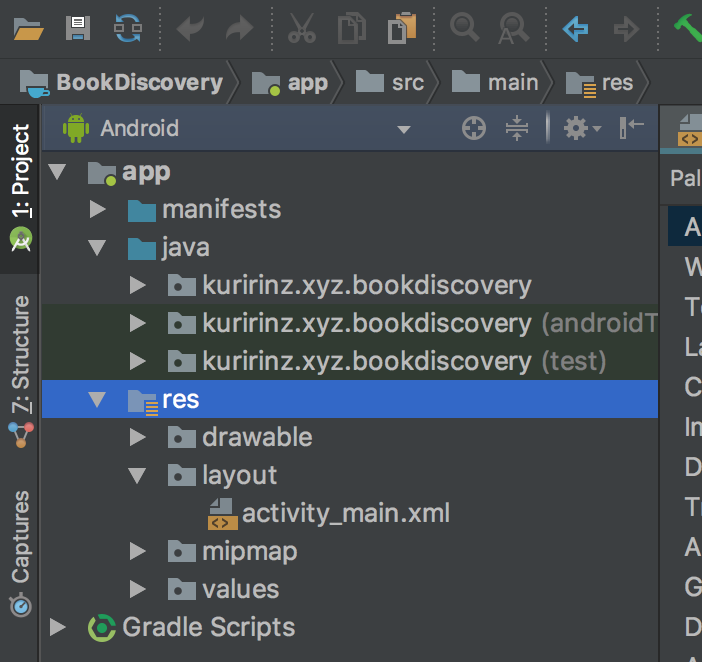
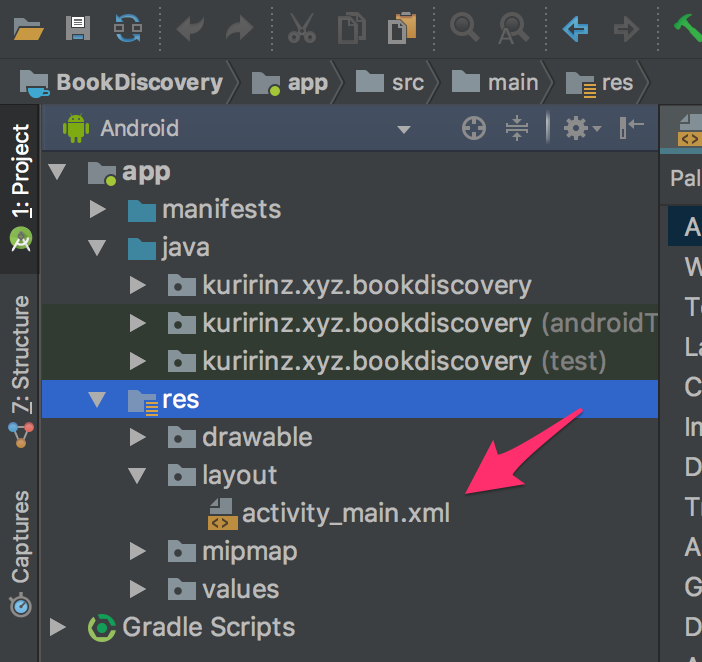
markdown箇条書きが有効になるよう記述を修正 レイアウト作成画面の手順、画像を更新

Changed region(s): [[0.6581, 0.6344, 0.8077, 0.7553], [0.8077, 0.6042, 0.8376, 0.6344]]

diff --git a/source/_posts/android/00-EnvironmentStructure.md b/source/_posts/android/00-EnvironmentStructure.md
@@ -35,28 +35,20 @@ java(JDK)をインストールします。
 ### JDKのインストール
 ダウンロードしたJDKのインストーラを起動してPCにJDKをインストールします。
 
-1.ダウンロードしたexeファイルをダブルクリックしインストーラーを起動します。
+1. ダウンロードしたexeファイルをダブルクリックしインストーラーを起動します。
 <img src="j8_i_01.png" alt="alt" title="java(JDK) install" width="520">
-
-
-2.確認ダイアログが表示された場合は、```はい```をクリックします。
+2. 確認ダイアログが表示された場合は、```はい```をクリックします。
 <img src="j8_i_02.png" alt="alt" title="java(JDK) install" width="450">
-
-3.JDKのインストール開始画面が表示されたら```次(N) >```をクリックし、その後も画面に従いインストールを進めます。
+3. JDKのインストール開始画面が表示されたら```次(N) >```をクリックし、その後も画面に従いインストールを進めます。
 <img src="j8_i_03.png" alt="alt" title="java(JDK) install" width="450">
-
-4.**開発ツール**が選択されていることを確認し、```次(N) >```をクリックします
+4. **開発ツール**が選択されていることを確認し、```次(N) >```をクリックします
 <img src="j8_i_04.png" alt="alt" title="java(JDK) install" width="450">
-
-5.JDKの保存先を設定できます、変更は不要なので```次(N) >```をクリックします
+5. JDKの保存先を設定できます、変更は不要なので```次(N) >```をクリックします
 <img src="j8_i_06.png" alt="alt" title="java(JDK) install" width="450">
-
-6.インストールが始まります、完了して画面が変わるのを待ちます
+6. インストールが始まります、完了して画面が変わるのを待ちます
 <img src="j8_i_07.png" alt="alt" title="java(JDK) install" width="450">
-
-7.インストールの完了画面が表示されたら```閉じる(C)```をクリックします
+7. インストールの完了画面が表示されたら```閉じる(C)```をクリックします
 <img src="j8_i_08.png" alt="alt" title="java(JDK) install complete" width="450">
-
 
 以上でJDKのインストールが完了です。
 
@@ -66,84 +58,60 @@ java(JDK)をインストールします。
 ### JDKのインストール 確認
 次にコマンドプロンプトを使いJDKが正しくインストールされたことを確認します。
 
-1.Windows ホーム画面の左下にある```検索欄```に```cmd```と入力し**コマンドプロンプト**をクリックし起動します。
-
+1. Windows ホーム画面の左下にある```検索欄```に```cmd```と入力し**コマンドプロンプト**をクリックし起動します。
 <img src="j8_c_01.png" alt="alt" title="java(JDK) install confirm" width="520">
-
-
-2.コマンドプロンプトに```java -version```と入力しエンターキーを押します。
+2. コマンドプロンプトに```java -version```と入力しエンターキーを押します。
 <img src="j8_c_02.png" alt="alt" title="java(JDK) install confirm" width="600">
 
-以上でjava(JDK)のインストール作業は完了です。
+以上でjava(JDK)のインストールの確認ができました
 
 ---
 
 ## Android Studio
-続いて Android Studioの環境構築を行います。
-
-### Android Studioのインストール
+最後にAndroid Studioの環境構築を行います。
 Android Studioをインストールするため、exeファイルを下記リンクからダウンロードページにアクセスします。
 
 [Android Studio ダウンロードページ](https://developer.android.com/studio/index.html?hl=ja)
 ※ 資料作成時の最新版は Android Studio 3.0.1
 
-1.**Android Studio Androidの公式 IDE**下にある```Android Studio 3.0.1 FOR WINDOWS...```のボタンをクリックしexeファイルをダウンロードします。
+1. **Android Studio Androidの公式 IDE**下にある```Android Studio 3.0.1 FOR WINDOWS...```のボタンをクリックしexeファイルをダウンロードします。
 <img src="as_i_01.png" alt="alt" title="Android Studio download" width="520">
-
-2.ダウンロードの確認画面が表示されたら**利用規約**を確認の上、チェックをクリックし、```ANDROID STUDIO FOR WINDOWS ダウンロード```をクリックします。
+2. ダウンロードの確認画面が表示されたら**利用規約**を確認の上、チェックをクリックし、```ANDROID STUDIO FOR WINDOWS ダウンロード```をクリックします。
 <img src="as_i_02.png" alt="alt" title="Android Studio download" width="520">
-
-3.ダウンロードしたexeファイルをダブルクリックし、Android Studioのインストーラーを起動します。
+3. ダウンロードしたexeファイルをダブルクリックし、Android Studioのインストーラーを起動します。
 <img src="as_i_03.png" alt="alt" title="Android Studio download" width="520">
-
-4.確認ダイアログが表示された場合は```はい```をクリックします
+4. 確認ダイアログが表示された場合は```はい```をクリックします
 <img src="as_i_04.png" alt="alt" title="Android Studio install" width="450">
-
-5.インストーラの起動画面が表示されたら```Next >```をクリックします
+5. インストーラの起動画面が表示されたら```Next >```をクリックします
 <img src="as_i_05.png" alt="alt" title="Android Studio install" width="450">
-
-6.インストールするコンポーネント設定が表示されたら"Android Virtual Device"がチェックされていることを確認し、
-```Next >```をクリックします
+6. インストールするコンポーネント設定が表示されたら"Android Virtual Device"がチェックされていることを確認し、```Next >```をクリックします
 <img src="as_i_06.png" alt="alt" title="Android Studio install" width="450">
-
-7.Android Studioの保存先を設定します、変更の必要がなければ```Next >```をクリックりします
+7. Android Studioの保存先を設定します、変更の必要がなければ```Next >```をクリックりします
 <img src="as_i_07.png" alt="alt" title="Android Studio install" width="450">
-
-8.```Install```をクリックします
+8. ```Install```をクリックします
 <img src="as_i_08.png" alt="alt" title="Android Studio install" width="450">
-
-9.インストールの完了を待ちます
+9. インストールの完了を待ちます
 <img src="as_i_09.png" alt="alt" title="Android Studio install" width="450">
-
-10.インストールが終わったら```Next >```をクリックします
+10. インストールが終わったら```Next >```をクリックします
 <img src="as_i_10.png" alt="alt" title="Android Studio install" width="450">
-
-11.```Finish```をクリックすると、Android Studioが起動します。
+11. ```Finish```をクリックすると、Android Studioが起動します。
 引き続き、Android Studioの初回セットアップを行います
 <img src="as_i_11.png" alt="alt" title="Android Studio install" width="450">
-
-12.Android Studioが起動しAndroid SDK Componentのインストールが開始されます
+12. Android Studioが起動しAndroid SDK Componentのインストールが開始されます
 <img src="as_s_01.png" alt="alt" title="Android Studio setup" width="450">
-
-13.Welcom画面が表示されたら```Next```をクリック
+13. Welcom画面が表示されたら```Next```をクリック
 <img src="as_s_02.png" alt="alt" title="Android Studio setup" width="450">
-
-14.Install Type画面では**Standard**が選択されていることを確認し```Next```をクリックします
+14. Install Type画面では**Standard**が選択されていることを確認し```Next```をクリックします
 <img src="as_s_03.png" alt="alt" title="Android Studio setup" width="450">
-
-15.Android Studioのテーマ、色合いを好みで選択し、```Next```をクリックします
+15. Android Studioのテーマ、色合いを好みで選択し、```Next```をクリックします
 <img src="as_s_04.png" alt="alt" title="Android Studio setup" width="450">
-
-16.確認画面が表示されたら```Finish```をクリックします
+16. 確認画面が表示されたら```Finish```をクリックします
 <img src="as_s_05.png" alt="alt" title="Android Studio setup" width="450">
-
-17.Androidアプリの開発に必要なComponentのダウンロードを待ちます
+17. Androidアプリの開発に必要なComponentのダウンロードを待ちます
 <img src="as_s_06.png" alt="alt" title="Android Studio setup" width="450">
-
-18.ダウンロードが終了したら、```Finish```をクリックします
+18. ダウンロードが終了したら、```Finish```をクリックします
 <img src="as_s_07.png" alt="alt" title="Android Studio setup" width="450">
-
-19.Android Studioの起動画面が表示されたら完了です
+19. Android Studioの起動画面が表示されたら完了です
 <img src="as_s_08.png" alt="alt" title="Android Studio setup complete" width="450">
 
 以上でAndroid Studioのインストール、セットアップ作業は完了です。

diff --git a/source/_posts/android/03-StartAndroidDevelopment.md b/source/_posts/android/03-StartAndroidDevelopment.md
@@ -18,16 +18,20 @@ date: 2017-11-04
 [カーリル 図書館 API](https://calil.jp/doc/api.html)
 [Google Books API](https://developers.google.com/books/)
 
+ネットワーク通信処理に利用するライブラリ
+[okHttp](http://square.github.io/okhttp/)
+
+検索履歴を保存するアプリ内データベースに利用するライブラリ
+[Realm](https://realm.io/jp/)
+
 # 新しいプロジェクトを作る
 
 1.Windows ホーム画面の左下にある```検索欄```に```Android```と入力し**Android Studio**をクリックし起動します。
 <img src="sad01.png" alt="alt" title="SetUp" width="600">
-
 2.```Start a new Android Studio project```をクリック
 <img src="sad02.png" alt="alt" title="SetUp" width="450">
-
 3.新規プロジェクト作成時にはアプリ名などを入力します
-  以下の表の通りに項目を設定して```Next```をクリックします。
+以下の表の通りに項目を設定して```Next```をクリックします。
 
 |項目名                 |説明                |入力内容        |
 |:---------------------|:-----------------:|:------------:|
@@ -37,24 +41,17 @@ date: 2017-11-04
 |include C++ support   |C++ライブラリ取込み   |チェックを外す   |
 |include Kotlin support|Kotlinライブラリ取込み|チェックを外す   |
 
-**Company domain**は講義の説明で作成するアプリはリリースしませんので独自ドメインをお持ちでなければ初期値の
-ままで構いません。
+**Company domain**は講義の説明で作成するアプリはリリースしませんので独自ドメインをお持ちでなければ初期値のままで問題ありません。
 今回の講義ではC++での実装はありませんのでチェックを外しておきます。
 また、Kotlinは後半で利用方法を紹介しますので一旦チェックを外しておいてください。
 <img src="sad03.png" alt="alt" title="SetUp" width="450">
-
 4.今回作成するAndroidアプリでサポート対象とするOSバージョンの下限設定を行います
-**Phone and Tablet**のみチェックをつけ、
-> API 23: Android 6.0 (Marshmallow)
-
-を選択したら、```Next```をクリックします
+**Phone and Tablet**のみチェックをつけ、```API 23: Android 6.0 (Marshmallow)```を選択したら、```Next```をクリックします
 <img src="sad04.png" alt="alt" title="SetUp" width="450">
-
 5.**Empty Activity**を選択し```Next```をクリックします
 <img src="sad05.png" alt="alt" title="SetUp" width="450">
-
 6.初期画面となるActivity設定を行います
-  以下の表の通りに項目を設定して```Next```をクリックします
+以下の表の通りに項目を設定して```Next```をクリックします
 
 |項目名                             |説明                |入力内容       |
 |:---------------------------------|:-----------------:|:------------:|
@@ -64,24 +61,18 @@ date: 2017-11-04
 |Backwards Compatibility(AppCompat)|下方互換性の有無      |チェックを入れる |
 
 <img src="sad06.png" alt="alt" title="SetUp" width="450">
-
 7.「6.」で設定した内容でAndroidアプリの開発のデフォルト環境を構築が実行されます
 インストールが終了し**done**の文字が表示されたら```Finish```をクリックします。
 <img src="sad07.png" alt="alt" title="SetUp" width="450">
-
 8.構築が終了すると開発画面に遷移します
 **Messages**エリアにエラーとリンクが表示されている場合はリンクをクリックします
 <img src="sad08.png" alt="alt" title="SetUp" width="450">
-
 9.不足しているComponentのインストールを行います
 **android-sdk-license**が選択された状態で**Accept**にチェックをいれ```Next```をクリックします
 <img src="sad09.png" alt="alt" title="SetUp" width="450">
-
 10.Componentのインストール状況が表示されるので終了を待ちます
 <img src="sad10.png" alt="alt" title="SetUp" width="450">
-
 11.インストールが終わったら```Finish```をクリックします
 <img src="sad11.png" alt="alt" title="SetUp" width="450">
-
 12.Android Studioの開発画面に戻りエラーが消えていたらセットアップ完了です
 <img src="sad12.png" alt="alt" title="SetUp" width="450">

diff --git a/source/_posts/android/04-MakeLayoutDesign.md b/source/_posts/android/04-MakeLayoutDesign.md
@@ -2,11 +2,70 @@
 title: レイアウト作成
 date: 2017-11-05
 ---
-Layout Editor / ConstraintsLayoutを使用したレイアウト実装と動作確認
+Layout Editor / ConstraintLayoutを使用したレイアウト実装と動作確認
 
 <!-- toc -->
 
-# Layout Editor / ConstraintsLayout
-Android Studio 2.2から追加された機能とコンポーネントを使って画面レイアウトを作成します。
+# Layout Editor / ConstraintLayout
+Android Studio 2.2から追加されたLayout Editor、ConstraintLayoutを使って画面レイアウトを作成します。
+
+**ここに完成画面を表示**
+
+## Layout Editor
+視覚的にViewやWidgetを配置することができるようになった、特にConstrainsLayoutと
+合わせて使うことで画面のレイアウトを行う際にxmlによるプログラムを記述する手間が
+省きながら実際に配置を確認できるようになった。
+
+## ConstraintLayout
+Android 2.3(Gingerbread)以上を対象に開発を行う場合に利用することが可能。
+constraint(制約)をViewやWidgetに設けることでレイアウトを決めることができる。
+従来の"Linear Layout"や"Relative Layout"に比べネスト構造を減らした実装を行うことができるようになった。
+
+制約という単語ですがgoogle翻訳としては
+> ある条件を課して、自由にはさせないこと。その物事のために必要な条件
+
+とあります、Layoutに当てはめるとコンポーネント同士を隣接させるという制約を
+
+## ConstraintLayoutによるレイアウトの基本
+1. 先ずは以下パスにあるメイン画面のレイアウトファイルを非表示します
+**※app -> res -> layout -> activity_main.xml**
+<img src="le0.png" alt="alt" title="create layout" width="500">
+2. ２つの画面らしき表示が出たら**"Hello World"**と表示されたTextViewをクリックして```delete```キーで削除します
+<img src="le1.png" alt="alt" title="create layout" width="500">
+3. 検索文字を入力コンポーネントを画面に追加します
+```PlainText```をクリックしたまま引っ張って画面でクリックを離すと**editText**が画面に表示されます
+<img src="le2.png" alt="alt" title="create layout" width="500">
+4. editTextの配置を決めていきます
+```editText```の左枠に表示されている **◯**をクリックしたまま画面の左端まで引っ張って離します
+<img src="le3.png" alt="alt" title="create layout" width="500">
+```editText```が以下の画面のように左に近づいたと思います。
+<img src="le4_1.png" alt="alt" title="create layout" width="500">
+「4.」の手順により画面左端とeditTextを隣接させる"制約"が設定されたことになります。
+では上下と右辺も同じように各画面端と隣接する制約を設定してみましょう。
+<img src="le4_2.png" alt="alt" title="create layout" width="500">
+5. 上下左右に制約を付けるとEditTextは画面の真ん中に表示されます
+<img src="le7.png" alt="alt" title="create layout" width="500">
+6. editTextを真ん中より少し左上に配置するために縦横の"バイアス"を以下の通り調整します
+	* 垂直方向バイアス -> **30**
+	* 水平方向バイアス -> **25**
+<img src="le8.png" alt="alt" title="create layout" width="500">
+7. 次に***図書館検索***用の入力コンポーネント```editText2```を追加し画面の上下左右と制約をつけます
+<img src="le10.png" alt="alt" title="create layout" width="500">
+8. editText2を真ん中より少し左に配置するために縦横の"バイアス"を以下の通り調整します
+	* 垂直方向バイアス -> **50**
+	* 水平方向バイアス -> **25**
+<img src="le11.png" alt="alt" title="create layout" width="500">
+
+<img src="le12.png" alt="alt" title="create layout" width="500">
+
+<img src="le13.png" alt="alt" title="create layout" width="500">
+
+<img src="le14.png" alt="alt" title="create layout" width="500">
+
+<img src="le15.png" alt="alt" title="create layout" width="500">
+
+<img src="le16.png" alt="alt" title="create layout" width="500">
+
+
 
 入力画面,機能を実装してエミュレータ起動、デバッグ方法を記載

diff --git a/source/_posts/android/02-AndroidConcept.md b/source/_posts/android/02-AndroidConcept.md
@@ -9,12 +9,14 @@ Androidアプリ開発に必要になる概念を学んでいきます
 # Android開発における４大要素
 Android アプリの開発には重要に扱われている4大要素があります。
 各要素を一言で表すと以下４つになります。
-１.画面
-２.アプリ/機能の呼び出し
-３.バックグラウンド実行
-４.外部からの呼び出し受付
+
+１. 画面
+２. アプリ/機能の呼び出し
+３. バックグラウンド実行
+４. 外部からの呼び出し受付
 
 また上記の要素をAndroidアプリの開発に当てはめると以下名称にて使われます。
+
 * Activity(1.画面)
 * Intent(2.アプリ/機能の呼び出し)
 * Service(3.バックグラウンド実行)
@@ -58,7 +60,7 @@ ActivityやFragmentとは違ったサイクルが存在する。
 
 ### ViewGroup
 子要素を持つことができるView
-LinearLayout,RelativeLayout、最近追加されたものとしてはConstraintsLayoutが該当します。
+LinearLayout,RelativeLayout、最近追加されたものとしてはConstraintLayoutが該当します。
 他にListViewやGridView、RecyclerViewもViewGroupに該当します。
 どのコンポーネントも内部にView要素を持つことができる要素になります。
 
@@ -83,18 +85,6 @@ Fragmentのライフサイクル[※2]
 
 Viewのライフサイクル[※3]
 <img src="viewinlifecycle.png" alt="alt" title="view life cycle" width="450">
-
-# Layout EditorとConstraints Layout
-Android Studio 2.2から追加されたLayoutEditorとConstraintsLayoutを使用することでアプリ画面のレイアウト実装を視覚的に確認しながら実装できるようになった。
-
-## Layout Editor
-視覚的にViewやWidgetを配置することができるようになった、Constrains Layoutと合わせて使うことで画面のレイアウトを行う際にxmlによるプログラムを記述する手間が
-省きながら実際に配置を確認できるようになった。
-
-## Constraints Layout
-Android 2.3(Gingerbread)以上を対象に開発を行う場合に利用することが可能。
-constraints(制約)をViewやWidgetに設けることでレイアウトを決めることができる。
-従来の"Linear Layout"や"Relative Layout"に比べネスト構造を減らした実装を行うことができるようになった。
 
 [※1]: https://developer.android.com/guide/components/activities.html?hl=ja
 [※2]: https://developer.android.com/guide/components/fragments.html?hl=ja
